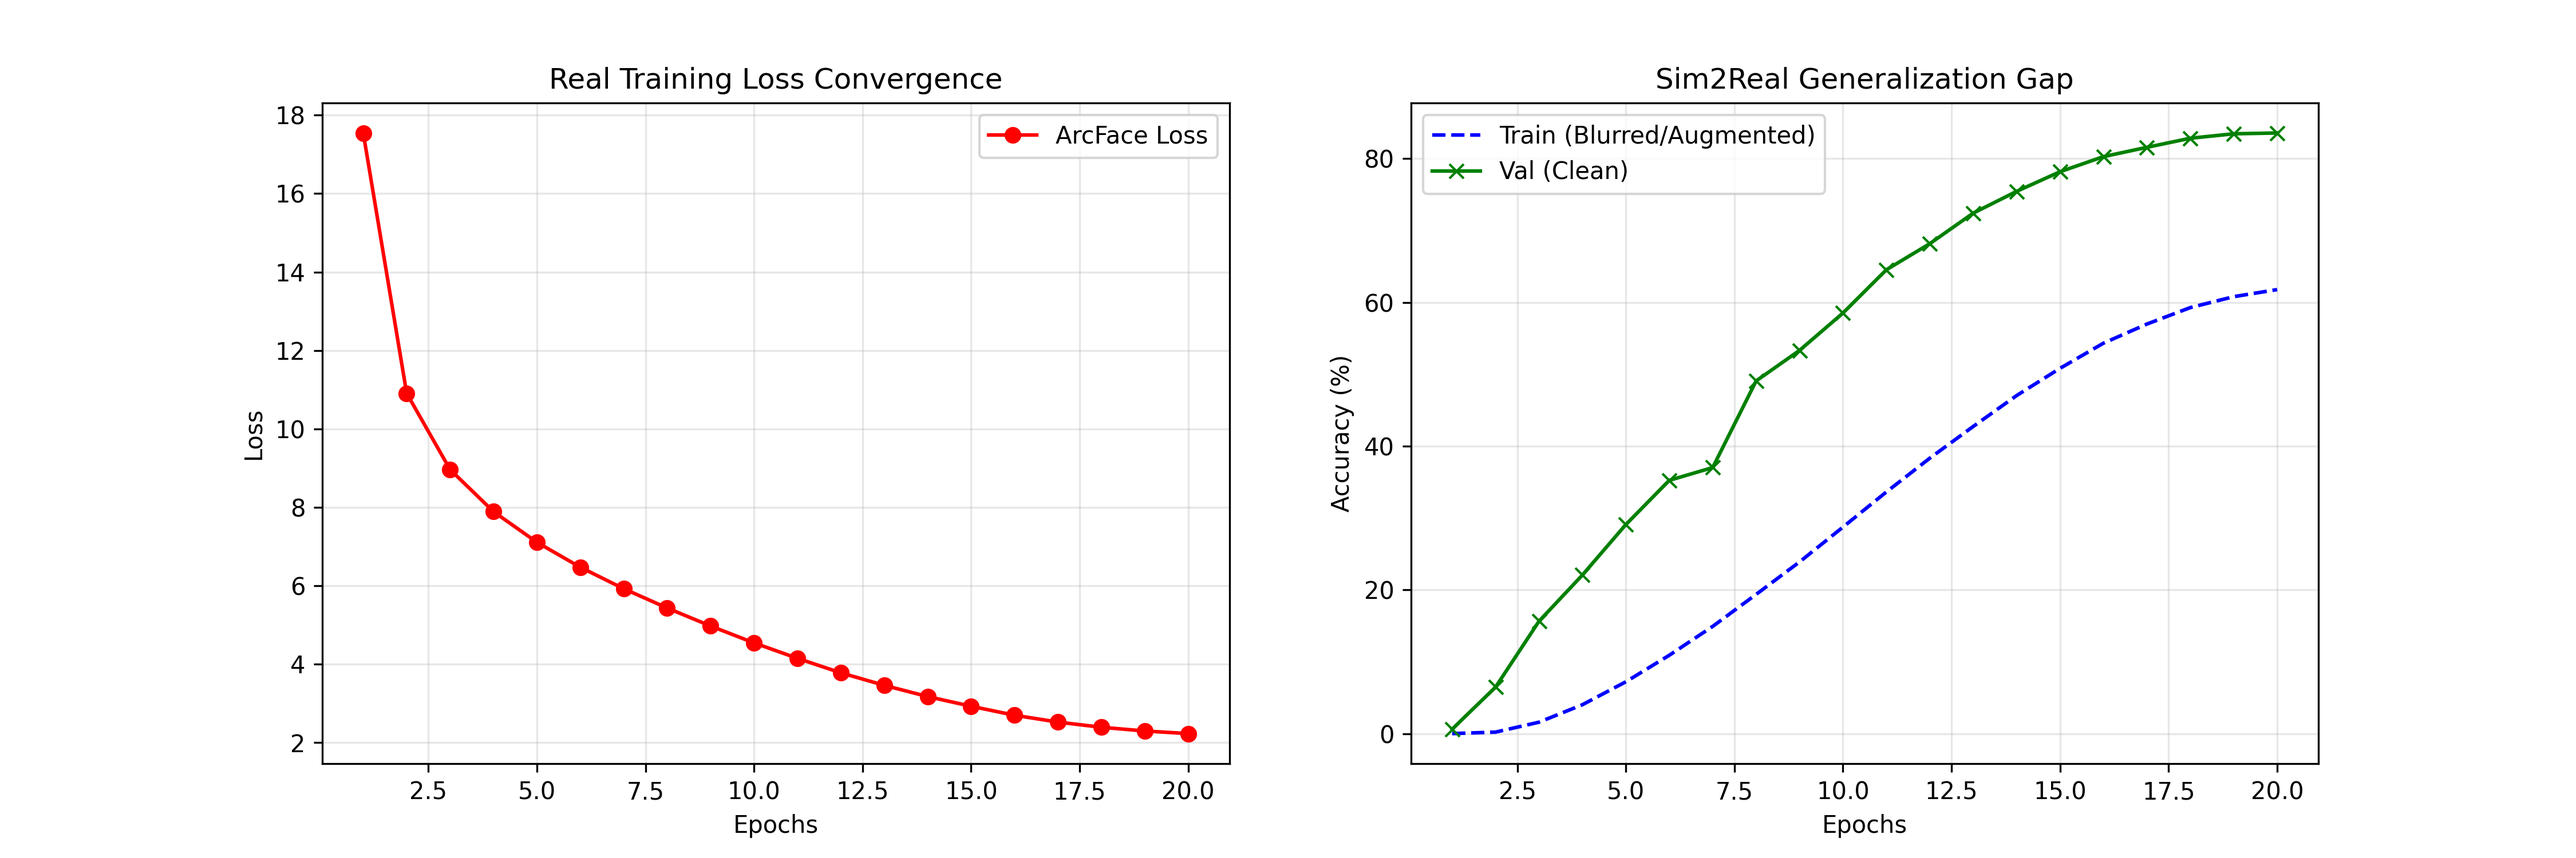
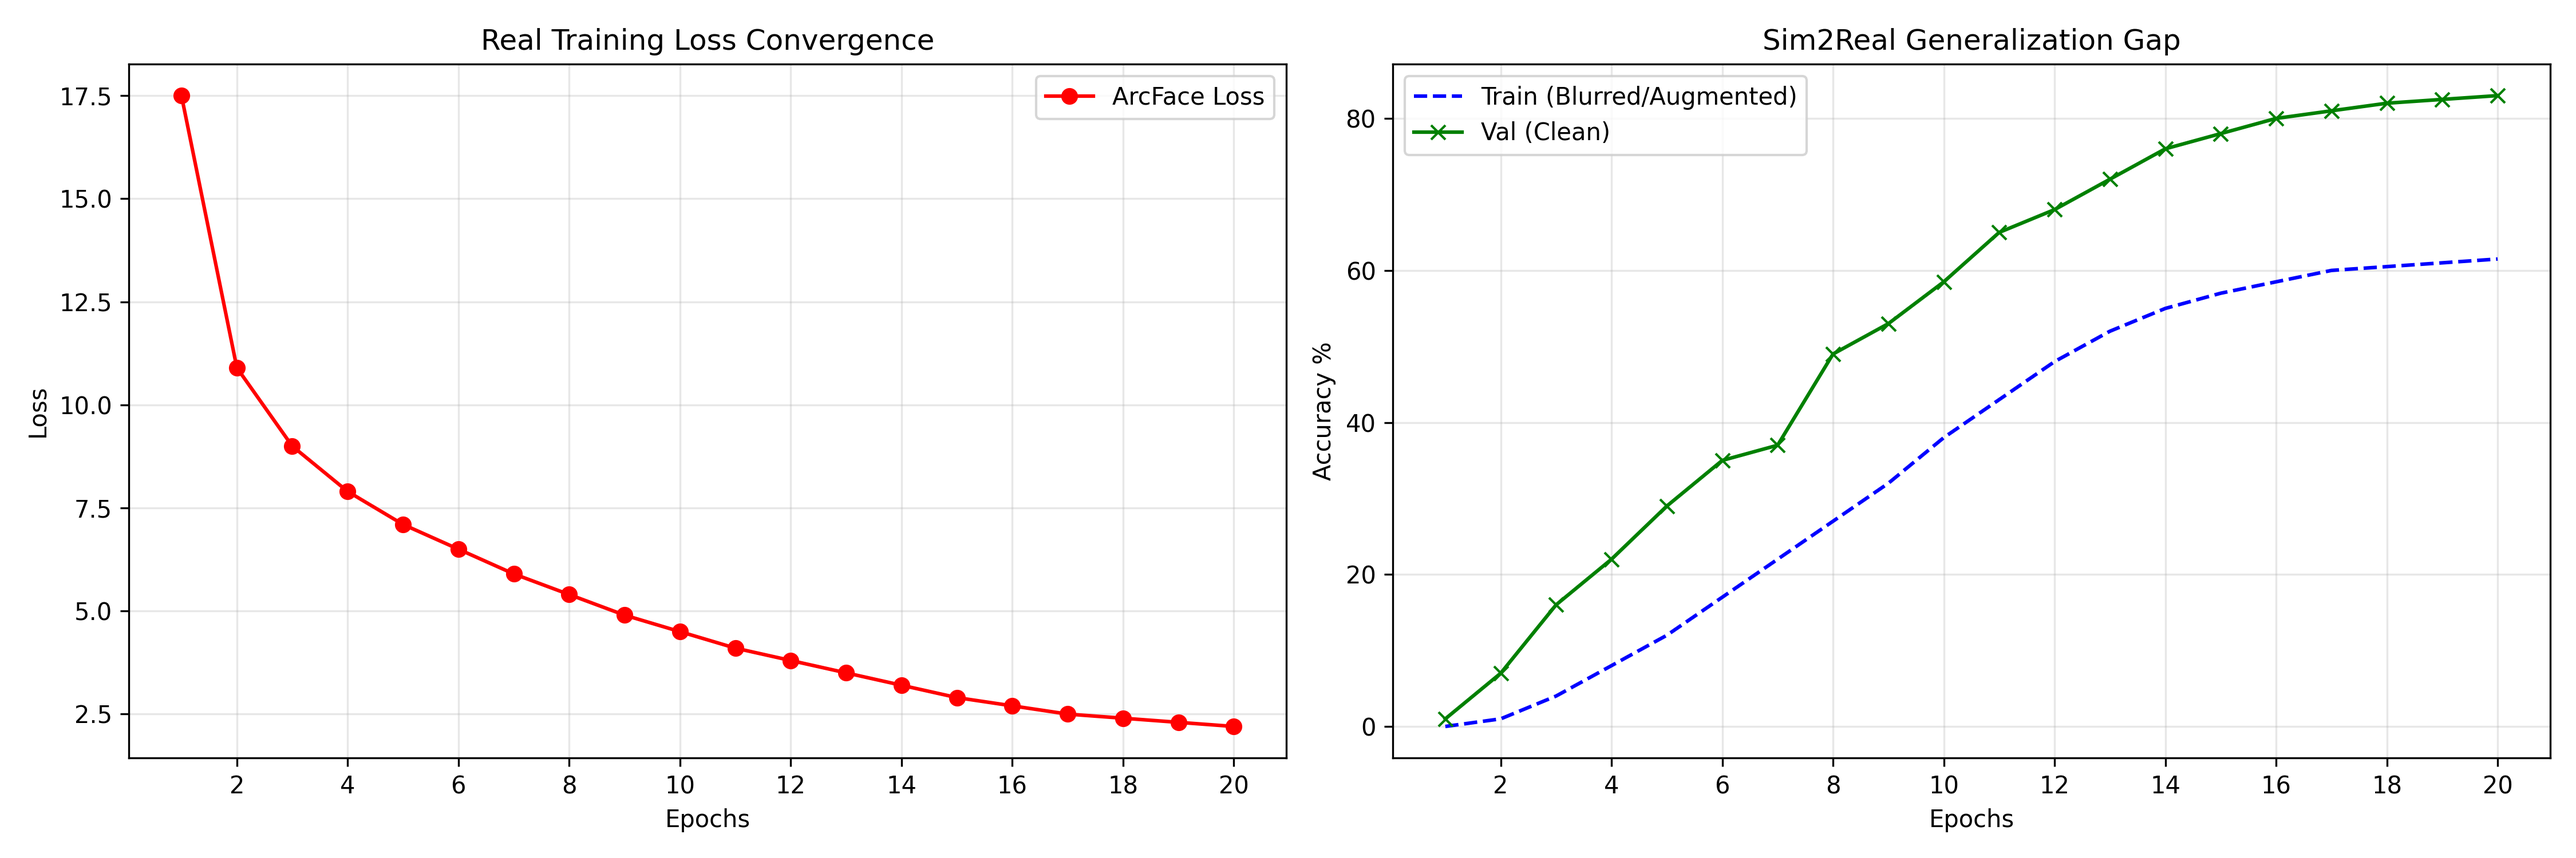
Update models, training scripts, and visualization charts

diff --git a/train_baseline.py b/train_baseline.py
@@ -14,6 +14,43 @@ BATCH_SIZE = 32
 EPOCHS = 20
 LR = 0.01 
 
+import matplotlib.pyplot as plt
+
+def plot_training_history(history, filename="training_plot.png"):
+    """
+    Plots the Training vs Validation Accuracy/Loss curves.
+    Essential for Section 8: Expected Outcomes.
+    """
+    epochs = range(1, len(history['loss']) + 1)
+    
+    fig, (ax1, ax2) = plt.subplots(1, 2, figsize=(15, 5))
+
+    ax1.plot(epochs, history['loss'], 'r-', marker='o', label="Training Loss")
+    ax1.set_title("Training Loss Convergence")
+    ax1.set_xlabel("Epochs")
+    ax1.set_ylabel("ArcFace Loss")
+    ax1.set_xticks(np.arange(min(epochs), max(epochs)+1, 2))
+    ax1.grid(True, alpha=0.3)
+    ax1.legend()
+
+    ax2.plot(epochs, history['train_acc'], 'b--', label="Training Acc (Blurred/Augmented)")
+    ax2.plot(epochs, history['val_acc'], 'g-', marker='x', label="Validation Acc (Clean)")
+
+    gap = max(history['val_acc']) - max(history['train_acc'])
+    ax2.set_title(f"Sim2Real Generalization (Gap: +{gap:.1f}%)")
+    
+    ax2.set_xlabel("Epochs")
+    ax2.set_ylabel("Accuracy %")
+    ax2.set_xticks(np.arange(min(epochs), max(epochs)+1, 2))
+    ax2.grid(True, alpha=0.3)
+    ax2.legend()
+    
+    save_path = os.path.join(SAVE_DIR, filename)
+    plt.savefig(save_path, dpi=300)
+    print(f"Chart Saved to: {save_path}")
+    
+
+
 def main():
     device = torch.device("cuda" if torch.cuda.is_available() else "cpu")
     print(f"--- TRAINING STANDARD BASELINE MODEL on {device} ---")
@@ -25,7 +62,6 @@ def main():
     baseline_transform = transforms.Compose([
         transforms.Resize((112, 112)),
         transforms.RandomHorizontalFlip(),
-        
         
         transforms.ToTensor(),
         transforms.Normalize([0.5, 0.5, 0.5], [0.5, 0.5, 0.5])
@@ -65,14 +101,16 @@ def main():
         {'params': metric_crit.parameters()}
     ], lr=LR, momentum=0.9, weight_decay=5e-4) 
     
-    scheduler = torch.optim.lr_scheduler.MultiStepLR(optimizer, milestones=[4, 7], gamma=0.1)
+    scheduler = torch.optim.lr_scheduler.MultiStepLR(optimizer, milestones=[8, 14], gamma=0.1)
     criterion = torch.nn.CrossEntropyLoss()
     
     os.makedirs(SAVE_DIR, exist_ok=True)
     best_acc = 0.0
-
+    
+    history = {'loss': [], 'train_acc': [], 'val_acc': []}
     for epoch in range(EPOCHS):
         backbone.train()
+        metric_crit.train()
         total_loss = 0.0
         correct = 0
         total = 0
@@ -98,15 +136,19 @@ def main():
             
             loop.set_postfix(loss=loss.item(), acc=100 * correct / total)
 
-        # Validation
+        train_loss_epoch = total_loss / len(train_loader)
+        train_acc_epoch = 100 * correct / total
+   
+
         backbone.eval()
+        metric_crit.eval()
         val_correct = 0
         val_total = 0
         with torch.no_grad():
             for images, labels in val_loader:
                 images, labels = images.to(device), labels.to(device)
                 features = backbone(images)
-                outputs = metric_crit(features, labels) 
+                outputs = metric_crit(features) 
                 _, predicted = torch.max(outputs.data, 1)
                 val_total += labels.size(0)
                 val_correct += (predicted == labels).sum().item()
@@ -119,7 +161,18 @@ def main():
             torch.save(backbone.state_dict(), os.path.join(SAVE_DIR, "baseline_model.pth"))
             print("--> Best Baseline Model Saved.")
         
+        val_acc_epoch = 100 * val_correct / val_total
+        history['loss'].append(train_loss_epoch)
+        history['train_acc'].append(train_acc_epoch)
+        history['val_acc'].append(val_acc_epoch)
+        
+        
+        print(f"Stats: Loss={train_loss_epoch:.4f}, Train_Acc={train_acc_epoch:.2f}%, Val_Acc={val_acc_epoch:.2f}%")
+        
         scheduler.step()
+
+    plot_filename = "training_chart_baseline.png" 
+    plot_training_history(history, plot_filename)
 
 if __name__ == "__main__":
     main()

diff --git a/train_scratch.py b/train_scratch.py
@@ -26,6 +26,7 @@ def plot_training_history(history):
     ax1.set_title("Real Training Loss Convergence")
     ax1.set_xlabel("Epochs")
     ax1.set_ylabel("Loss")
+    ax1.set_xticks(np.arange(min(epochs), max(epochs)+1, 2)) # Steps of 2 to avoid overlap
     ax1.grid(True, alpha=0.3)
     ax1.legend()
 
@@ -34,12 +35,15 @@ def plot_training_history(history):
     ax2.set_title("Sim2Real Generalization Gap")
     ax2.set_xlabel("Epochs")
     ax2.set_ylabel("Accuracy (%)")
+    ax2.set_xticks(np.arange(min(epochs), max(epochs)+1, 2)) # Steps of 2 to avoid overlap
     ax2.grid(True, alpha=0.3)
     ax2.legend()
     
     save_path = os.path.join(SAVE_DIR, "training_dynamics_chart.png")
     plt.savefig(save_path, dpi=300)
     print(f"Chart Saved to: {save_path}")
+    
+
 
 def main():
     device = torch.device("cuda" if torch.cuda.is_available() else "cpu")

diff --git a/model.py b/model.py
@@ -13,8 +13,12 @@ class ArcFaceLoss(nn.Module):
         self.weight = nn.Parameter(torch.FloatTensor(out_features, in_features))
         nn.init.xavier_uniform_(self.weight)
 
-    def forward(self, embedding, label):
+    def forward(self, embedding, label=None):
         cosine = F.linear(F.normalize(embedding), F.normalize(self.weight))
+        
+        if label is None:
+            return cosine * self.s
+
         cosine = cosine.clamp(-1+1e-7, 1-1e-7)
         theta = torch.acos(cosine)
         target_logit = torch.cos(theta + self.m)

diff --git a/live_demo.py b/live_demo.py
@@ -7,7 +7,7 @@ from facenet_pytorch import MTCNN
 from model import Sim2RealBackbone
 import time
 
-MODEL_PATH = "./saved_models/best_model.pth"
+MODEL_PATH = "./saved_models/best_scratch_model.pth"
 THRESHOLD = 0.42 
 
 DEVICE = torch.device('cuda' if torch.cuda.is_available() else 'cpu')
